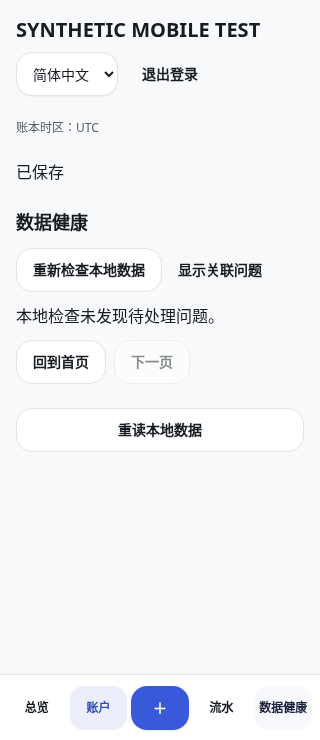
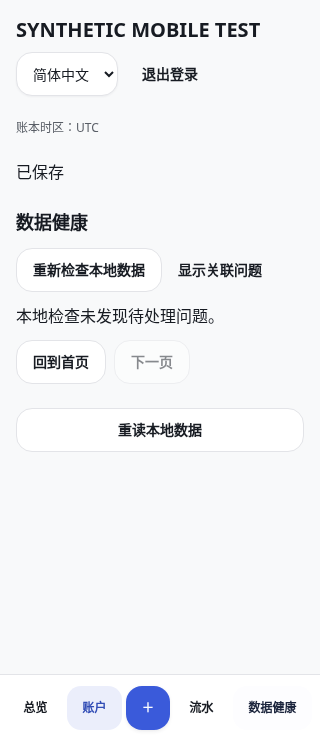
fix(mobile): render known holding costs and readable navigation

diff --git a/frontend/src/mobile/MobileApp.test.tsx b/frontend/src/mobile/MobileApp.test.tsx
@@ -99,6 +99,41 @@ beforeEach(async () => {
             next: "",
           }),
         );
+      if (route === "/accounts/synthetic-bank")
+        return json(
+          envelope({ account: { name: "Synthetic bank" }, components: [] }),
+        );
+      if (route.startsWith("/holdings?"))
+        return json(
+          envelope({
+            items: [
+              {
+                id: "synthetic-holding",
+                name: "Synthetic fund",
+                quantity: "2",
+                cost: { amount: "37.25", currency: "CNY" },
+                value: null,
+                gain: null,
+              },
+            ],
+            next: "",
+          }),
+        );
+      if (route === "/holdings/synthetic-holding")
+        return json(
+          envelope({
+            holding: {
+              InstrumentName: "Synthetic fund",
+              InstrumentID: "synthetic-instrument",
+              Quantity: "2",
+              TotalCost: { amount: "37.25", currency: "CNY" },
+              UnrealizedGain: null,
+              RealizedGain: null,
+            },
+            valuation: { components: [] },
+            quote: { unitPrice: "1.25", currency: "CNY" },
+          }),
+        );
       if (route === "/record-previews")
         return json({
           planId: "immutable-plan",
@@ -177,6 +212,22 @@ async function fillRecord(user: ReturnType<typeof userEvent.setup>) {
 }
 
 describe("mobile financial interruption flow", () => {
+  it("shows a known holding cost from the tagged money DTO instead of a blank amount", async () => {
+    const user = userEvent.setup();
+    mount();
+    await screen.findByText("SYNTHETIC MOBILE TEST");
+    await user.click(screen.getByRole("button", { name: "Accounts" }));
+    await user.click(
+      await screen.findByRole("button", { name: /Synthetic bank/ }),
+    );
+    await user.click(
+      await screen.findByRole("button", { name: /Synthetic fund/ }),
+    );
+    expect((await screen.findByText("Cost")).parentElement).toHaveTextContent(
+      "CN¥37.25",
+    );
+  });
+
   it("renders a healthy empty report without losing the application", async () => {
     healthy = true;
     const user = userEvent.setup();

diff --git a/frontend/src/mobile/MobileApp.tsx b/frontend/src/mobile/MobileApp.tsx
@@ -89,7 +89,7 @@ type HoldingDetailResponse = {
     InstrumentName: string;
     Quantity: string;
     InstrumentID: string;
-    TotalCost: { Amount: string; Currency: string } | null;
+    TotalCost: Money | null;
     UnrealizedGain: { Amount: string; Currency: string } | null;
     RealizedGain: { Amount: string; Currency: string } | null;
   };
@@ -986,17 +986,7 @@ function Detail({
               : t("mobile.unavailable")}
           </p>
           <p>
-            {t("mobile.cost")}{" "}
-            <MoneyText
-              value={
-                data.holding.TotalCost
-                  ? {
-                      amount: data.holding.TotalCost.Amount,
-                      currency: data.holding.TotalCost.Currency,
-                    }
-                  : null
-              }
-            />
+            {t("mobile.cost")} <MoneyText value={data.holding.TotalCost} />
           </p>
           <p>
             {t("mobile.gain")}{" "}

diff --git a/frontend/src/mobile/mobile.css b/frontend/src/mobile/mobile.css
@@ -14,6 +14,7 @@
   font-size: 16px;
 }
 .mobile-shell nav {
+  flex-wrap: wrap;
   position: fixed;
   bottom: 0;
   left: 50%;
@@ -38,11 +39,16 @@
 }
 
 .mobile-shell nav button {
-  flex: 1;
+  flex: 1 1 max-content;
   min-width: 0;
   padding-inline: 0.25rem;
   white-space: normal;
-  overflow-wrap: anywhere;
+  overflow-wrap: normal;
+  font-size: 0.75rem;
+}
+
+.mobile-shell nav button:nth-child(3) {
+  flex: 0 0 44px;
 }
 
 .mobile-shell button {

diff --git a/docs/qa/mobile-web-v1-2026-10-30/README.md b/docs/qa/mobile-web-v1-2026-10-30/README.md
@@ -40,7 +40,7 @@ Native Linux compilation used the existing isolated GTK4/WebKitGTK6 container.
 | Mobile/application/SQLite affected tests | Passed, including all daily operations, concurrent same-ID replay, stale CAS, atomic receipt rollback, manual health repair and verified SQLite reopen. |
 | Mobile/application targeted `-race` | Passed, including HTTP authorization, revocation ordering and provider job coordination. |
 | Frontend full suite | Passed: 157 files, 1,604 tests. |
-| Frontend lint/typecheck/build | Passed; final holding-detail and session-ownership additions also received focused type/lint/test/build checks (34 affected tests; a final four-file, 12-test subset also passed). |
+| Frontend lint/typecheck/build | Passed; final holding-detail and session-ownership additions also received focused type/lint/test/build checks (34 affected tests; a final four-file, 13-test subset also passed). |
 | Wails bindings regeneration and consistency | Passed; generated bindings and production bundles are not committed. |
 | gofmt and `git diff --check` | Passed. |
 
@@ -53,7 +53,7 @@ warnings remain distinct from application/runtime errors.
 
 The browser checks found and fixed an explicit-time transport mismatch and a
 healthy-report null-array crash. Regressions cover second-level/DST handling,
-empty reports, lost-response lookup/retry, locale-specific repair entry and stale responses arriving after a new login.
+empty reports, lost-response lookup/retry, locale-specific repair entry, known holding cost rendering and stale responses arriving after a new login.
 
 ## Actual browser evidence
 
@@ -65,11 +65,11 @@ isolated browser fixture. This does not establish phone certificate trust.
 
 The browser completed token login, expense preview/confirm, same-plan replay,
 manual FX and NAV appends, health rescan to zero findings, language switching,
-holding-price inspection, narrow layouts, root-font enlargement and dark mode.
+holding-price and known-cost inspection, narrow layouts, root-font enlargement and dark mode.
 The exact replayed amount stayed `1.2345`; pending recovery storage cleared after
 success. There were no page runtime errors. See [machine-readable results](browser-results.json).
 
-The measured English cold JS response bodies totaled 211,509 bytes (approximately 207KiB) over
+The measured English cold JS response bodies totaled 211,500 bytes (approximately 207KiB) over
 gzip. This is local transfer evidence, not a real-phone latency, p95, large-ledger
 or desktop-contention claim. The 200% check changes root font size in Chromium;
 it is not native mobile accessibility zoom or screen-reader acceptance.
